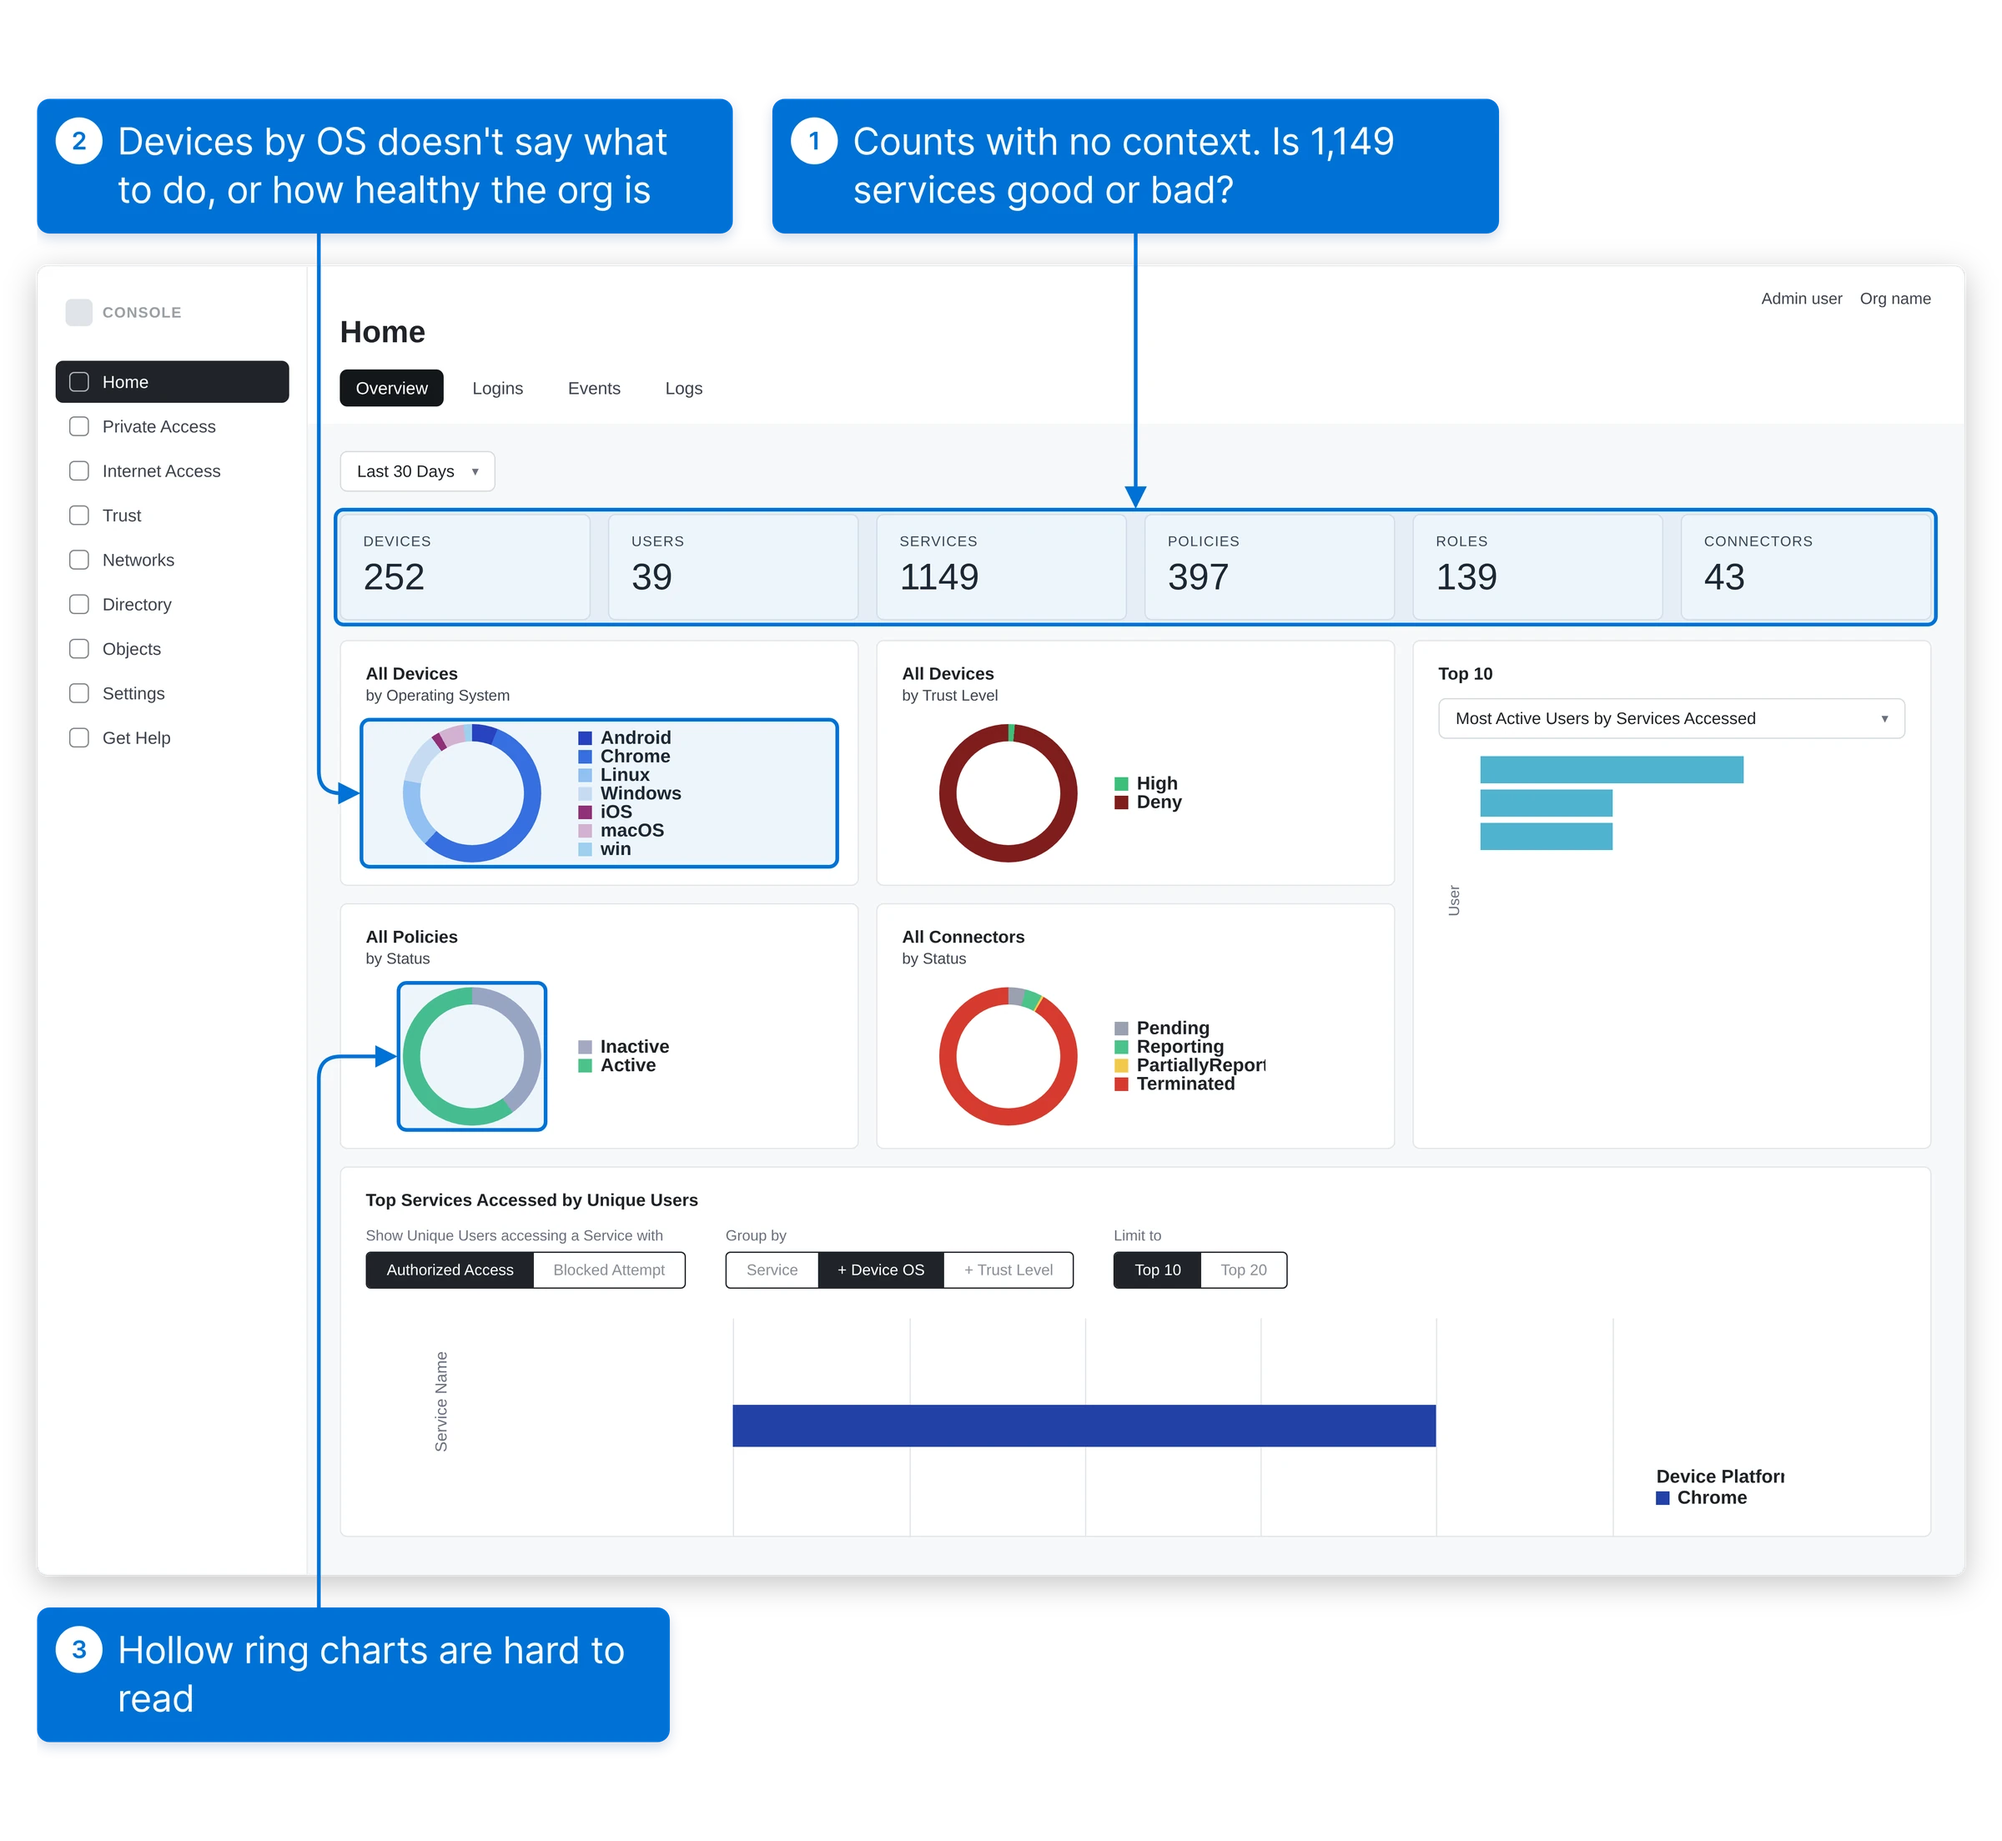
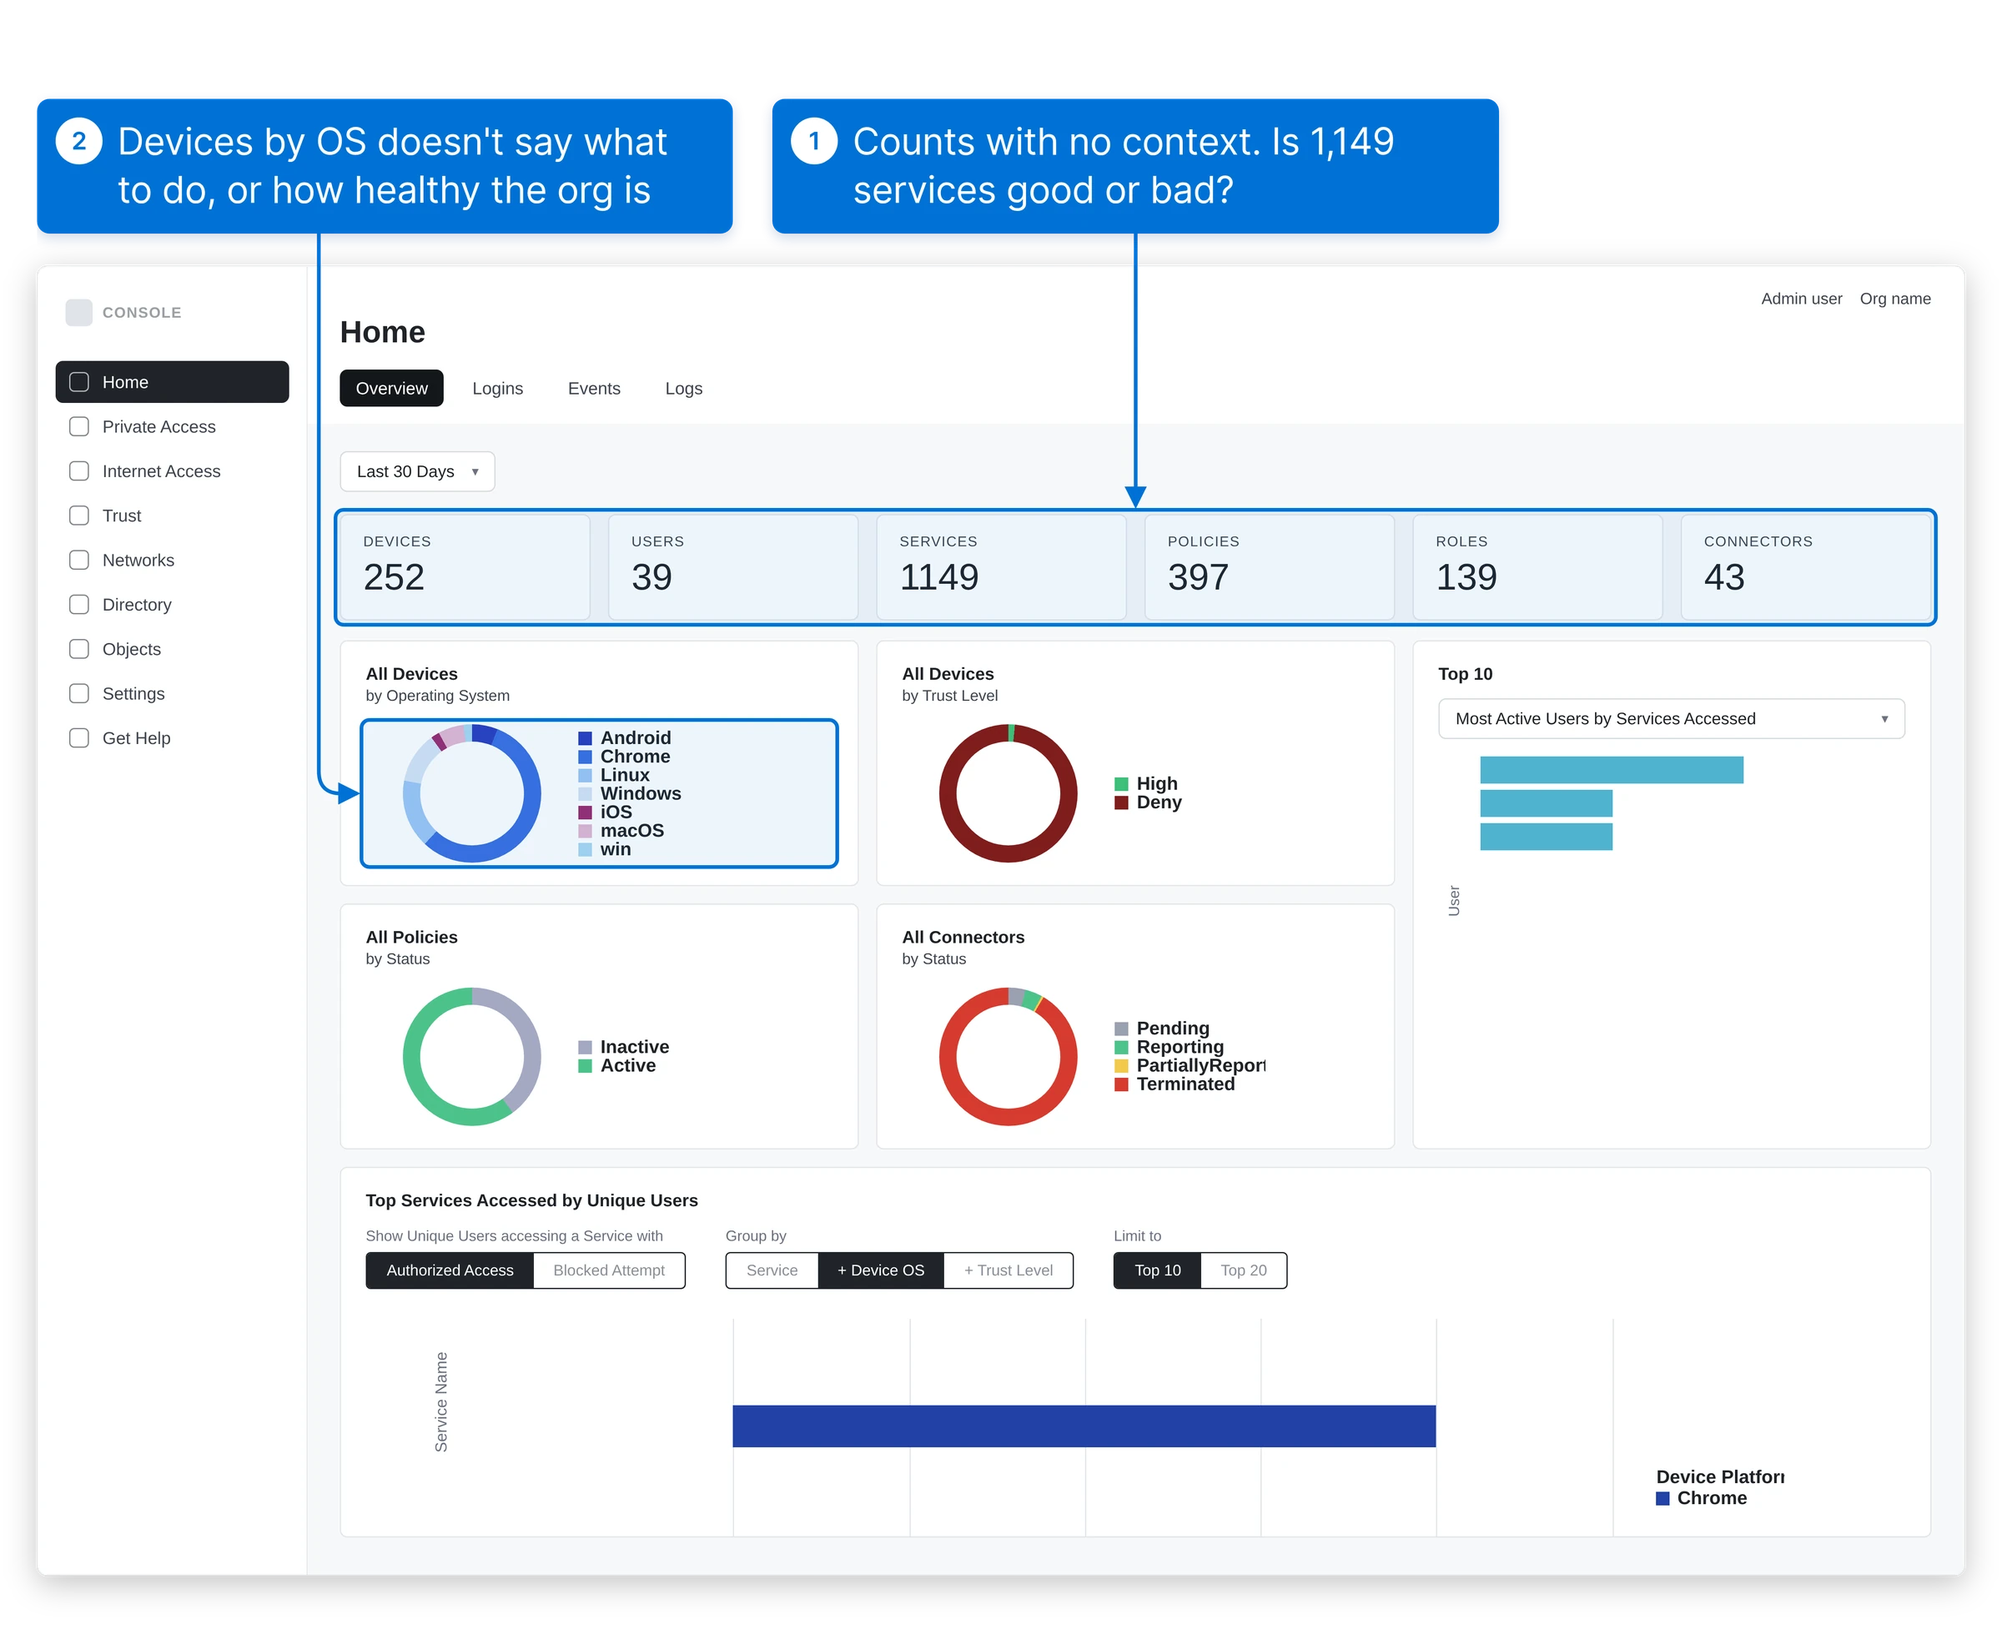
Remove the hollow ring chart point from the console homepage problem
Claude-Session: https://claude.ai/code/session_01LSpc9GfWinUYVZHRac1AsR

diff --git a/docs/content-design/console-homepage.md b/docs/content-design/console-homepage.md
@@ -16,7 +16,7 @@ sidebar_position: 2
 
 ## The problem
 
-![A prototype of the homepage before the redesign. Callout 1 points to the row of counts, 2 to the devices by operating system chart, and 3 to a hollow ring chart.](/img/content-design/console-home-before.webp)
+![A prototype of the homepage before the redesign. Callout 1 points to the row of counts, and 2 to the devices by operating system chart.](/img/content-design/console-home-before.webp)
 
 <p className="shot-cap">Six counts and five charts, filtered to the last 30 days. Every chart describes what the organization has. None of them says whether the product is working.</p>
 
@@ -24,7 +24,6 @@ The homepage answered questions that admins don't ask when they sign in.
 
 1. **Counts with no context.** The top row counted devices, users, services, policies, roles, and connectors. 1,149 services is neither good nor bad.
 2. **No sense of what to do.** A chart of devices by operating system shows the mix of devices. It doesn't tell an admin what to act on, or whether the organization is in good health.
-3. **Hard-to-read charts.** Hollow ring charts make it hard to compare slices, especially thin ones.
 
 ## The approach
 
@@ -44,7 +43,6 @@ At the top of the page, a health meter rolls the use cases up into one score. It
 | **Main content** | Counts of devices, users, services, policies, roles, and connectors | A card for each use case, with a headline number and the gap to fix |
 | **Context** | No comparisons or status | Comparisons such as "vs. yesterday", and a status for each use case |
 | **Next step** | None | A link to the activity behind each number, and a checklist of every setup task that the license includes |
-| **Charts** | Hollow ring charts with legends cut off | Plain numbers and bars with full labels |
 
 </div>
 
